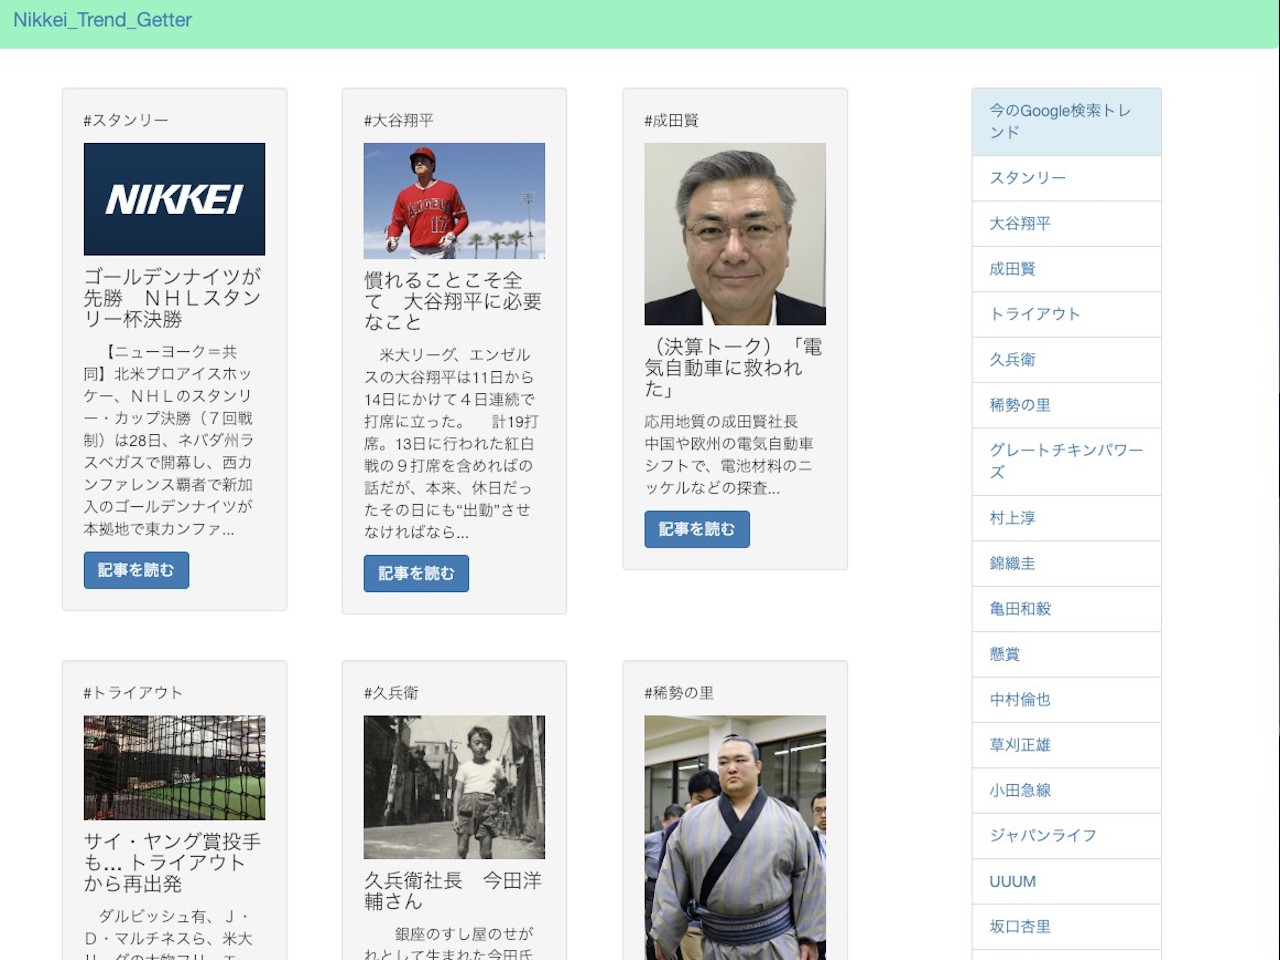
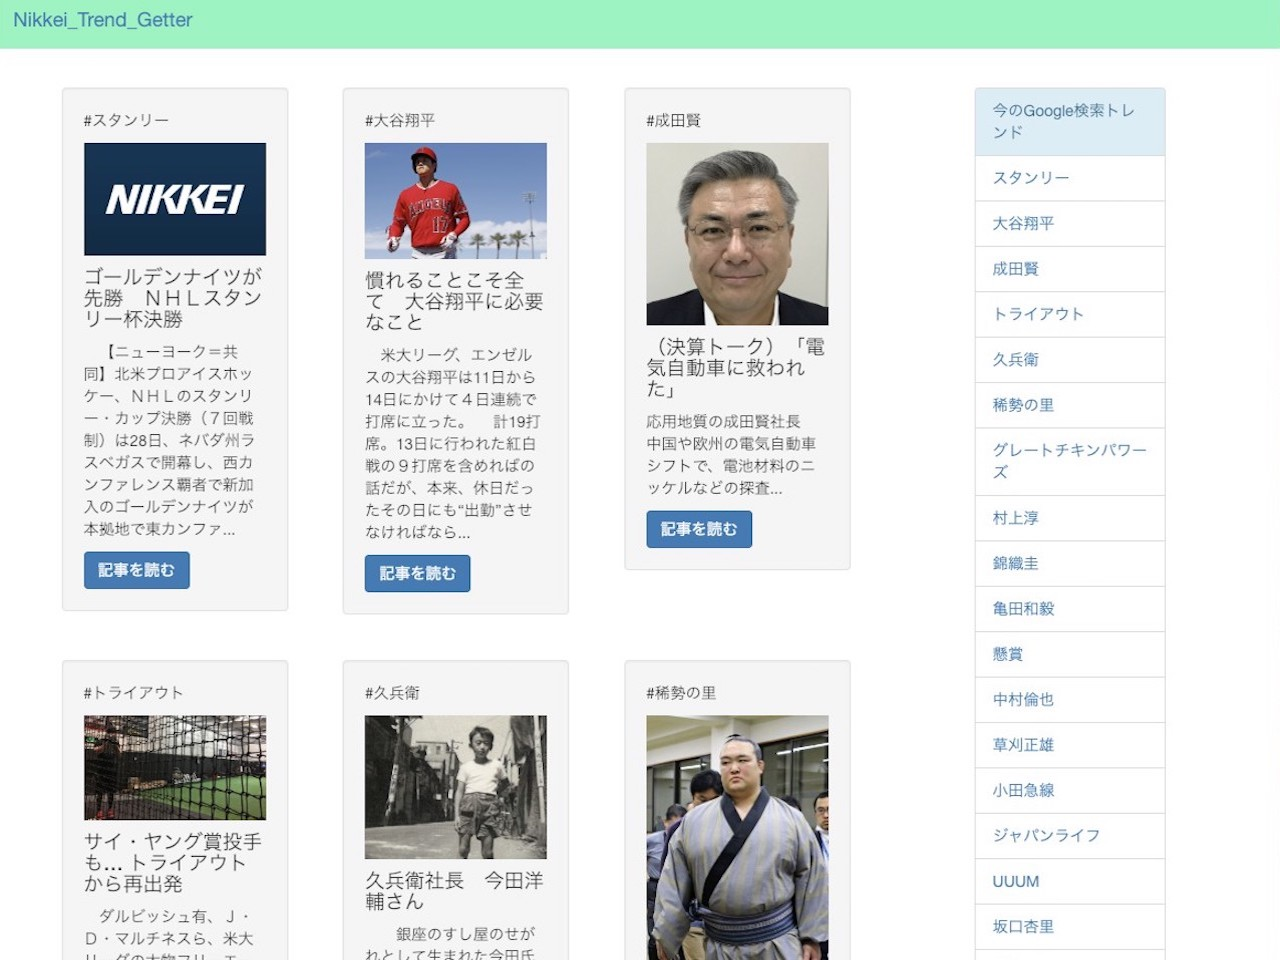
opacityの微修正とサイズ変更のtemplate

diff --git a/src/components/WorkCard.vue b/src/components/WorkCard.vue
@@ -83,12 +83,15 @@ export default {
     opacity: 0;
   }
   .v-enter-to {
-    opacity: 0.8;
+    opacity: 0.75;
   }
   @media screen and (min-width:768px) {
     .card {
       height: 50vh;
       width: 24vw;
+    }
+    .card:hover {
+      transform: scale(1.0);
     }
   }
 </style>
